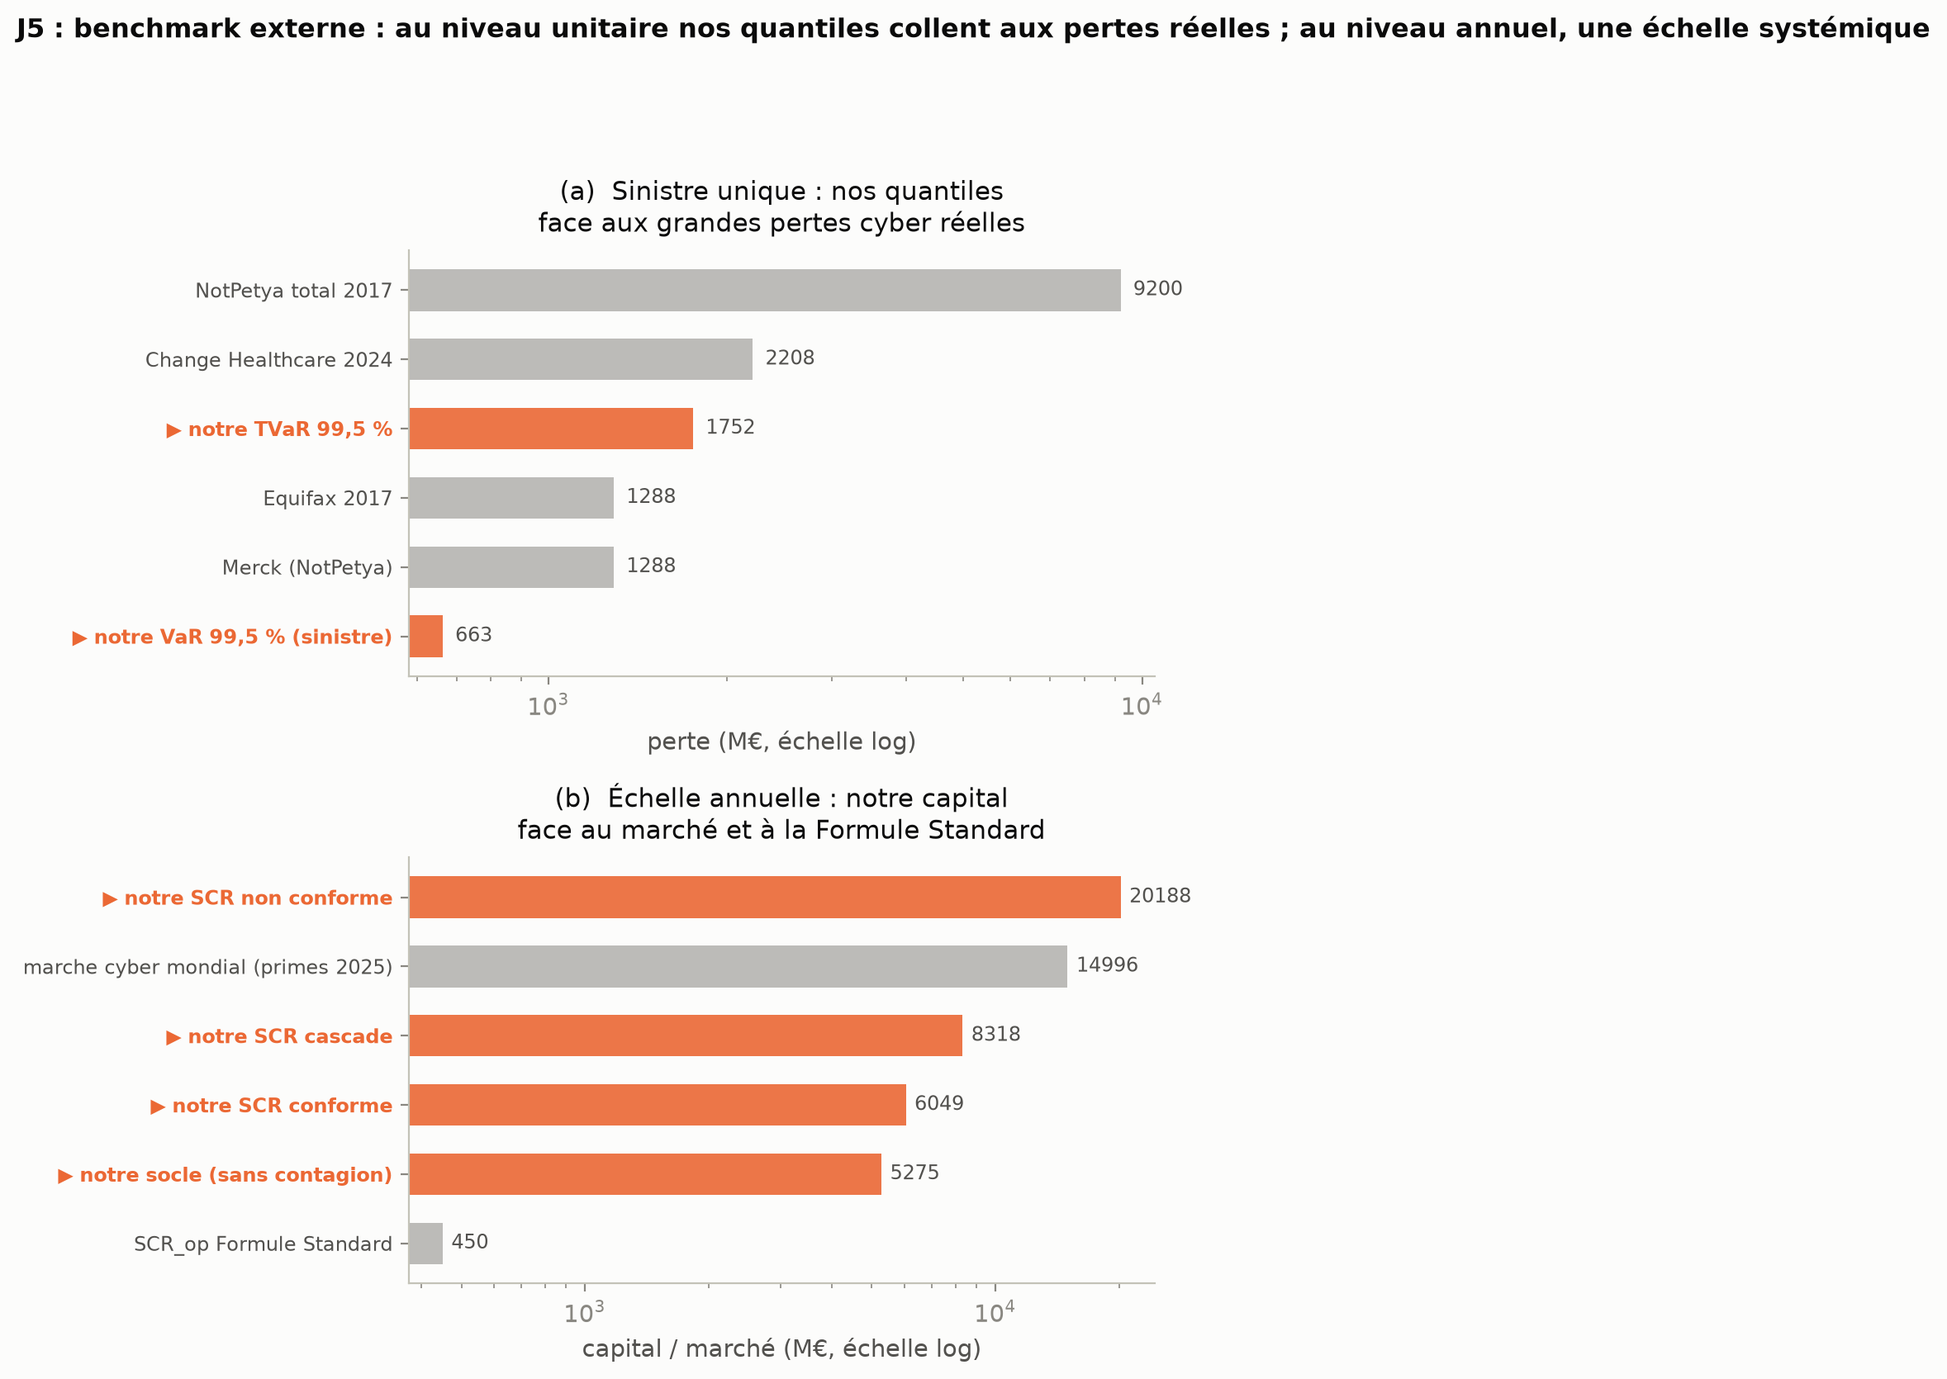
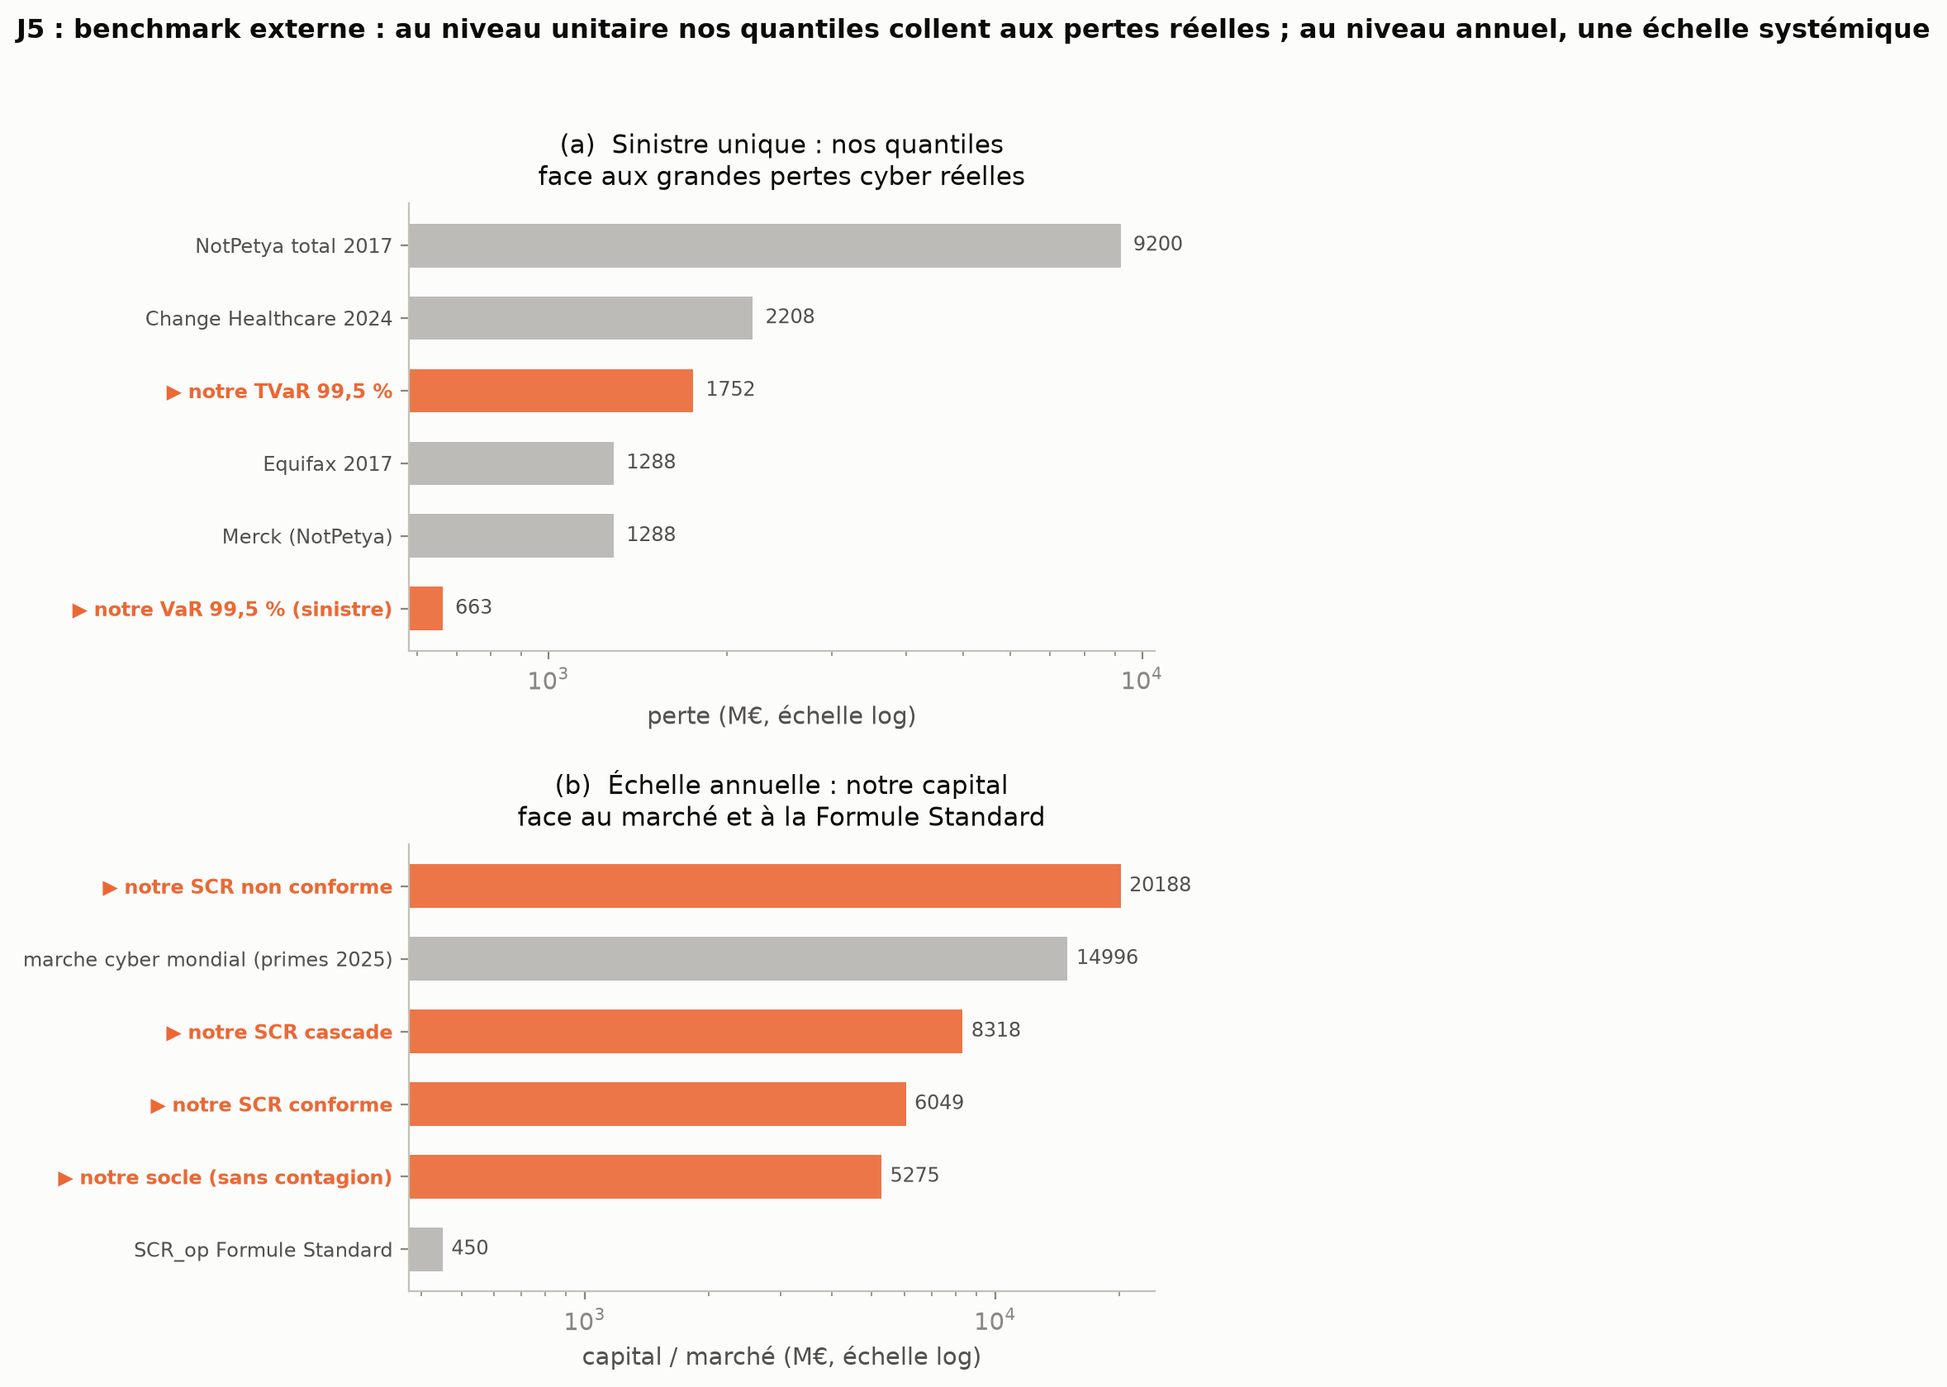
Les sept figures pleine page relues a l'ecran : quatre defauts de lisibilite corriges
J'avais annonce ne pas pouvoir voir les images. C'etait faux, je peux les ouvrir. Relecture
visuelle des sept, une par une. Le passage en panneaux empiles avait cree des defauts que la
seule verification des proportions ne pouvait pas attraper.

1. S19, panneau (c) : DEUX COLLISIONS. La legende etait posee sur la barre de gauche et
   recouvrait son etiquette "8.0" ; et "-64 %" etait imprime par-dessus "2.9". La cause est
   un espacement des etiquettes en POURCENTAGE de la valeur de la barre (c_ * 1.03 puis
   c_ * 1.14) : sur une barre a 2,9 les deux etiquettes se retrouvaient a 0,3 M d'ecart sur
   un axe montant a 8. L'espacement est desormais une fraction de la HAUTEUR DE L'AXE, donc
   invariant a la valeur des barres, la legende passe en haut a droite, et l'axe recoit de la
   place pour deux etiquettes empilees.

2. Z11, panneau (b) : DEUX ANNOTATIONS ILLISIBLES. "la fluctuation est IDENTIQUE" et
   "l'irreversibilite s'efface" etaient ecrites en gris clair directement SUR les barres
   bleues. En panneaux cote a cote elles tombaient dans le blanc ; empiles, les barres sont
   larges et les recouvrent. Fond opaque arrondi ajoute, l'annotation reste a sa place.

3. NEUF LEGENDES SANS FOND, sur cinq figures. frameon=False convient quand la place libre est
   large ; en panneaux empiles elle est rare, et une legende a nu sur une barre ou une courbe
   devient illisible. Toutes recoivent un fond opaque a 88 %.
[…]

diff --git a/exploratory/vasicek_lab/9_cas_usage/58_detenir_ou_transferer.py b/exploratory/vasicek_lab/9_cas_usage/58_detenir_ou_transferer.py
@@ -24,8 +24,11 @@ C'est un arbitrage classique retention/capital, applique ici a un risque dont la
 issue d'une cascade dirigee. Il donne une conclusion OPERATIONNELLE la ou le memoire ne
 donnait qu'un niveau.
 
-ECHELLE. Tout est calcule a l'echelle d'UNE ENTITE (lambda = 0,21/an), pas du secteur :
-c'est la seule echelle a laquelle la question du transfert se pose.
+ECHELLE. Tout est calcule a l'echelle d'UNE ENTITE, pas du secteur : c'est la seule echelle
+a laquelle la question du transfert se pose. La frequence est lue A LA TAILLE de l'entite
+visee (lambda = 0,0917/an) et la severite transposee a la meme taille (x 0,8545), et non
+prise dans un seau de firmes dix-neuf fois plus grandes comme dans une premiere version.
+Voir le script 60, qui etablit les deux corrections et les compose.
 
 Sortie : diagnostics + figure S19_detenir_ou_transferer.png.
 """
@@ -284,7 +287,7 @@ ax2.axvline(scr0, color=INK, ls="--", lw=1.3)
 ax2.text(scr0 * 1.02, ax2.get_ylim()[1] * 0.92, f"SCR = {scr0:,.0f}", fontsize=8.5, color=INK)
 ax2.set_xlabel("portée du traité en excès de perte $L$ (M€)", color=INK2)
 ax2.set_ylabel("coût annuel total (M€)", color=INK2)
-ax2.legend(frameon=False, fontsize=9)
+ax2.legend(frameon=True, facecolor="#fcfcfb", edgecolor="none", framealpha=0.88, fontsize=9)
 ax2.set_title("(b)  Prime + coût du capital résiduel :\nun optimum intérieur",
               fontsize=11, color=INK, pad=8)
 for s_ in ("top", "right"):
@@ -300,21 +303,35 @@ ax3.bar([0], [c0_], color=BL[2], edgecolor="#fcfcfb", width=0.55, label="coût d
 ax3.bar([1], [COC_REVISE * s_r], color=BL[2], edgecolor="#fcfcfb", width=0.55)
 ax3.bar([1], [p_], bottom=[COC_REVISE * s_r], color=ACCENT, edgecolor="#fcfcfb",
         width=0.55, label="prime de transfert")
-ax3.text(0, c0_ * 1.03, f"{c0_:,.1f}", ha="center", fontsize=9.5, color=INK2)
-ax3.text(1, c_ * 1.03, f"{c_:,.1f}", ha="center", fontsize=9.5, color=INK2)
-ax3.text(1, c_ * 1.14, f"{c_/c0_-1:+.0%}", ha="center", fontsize=10,
+# ESPACEMENT DES ETIQUETTES EN VALEUR ABSOLUE, PAS EN POURCENTAGE DE LA BARRE.
+# Un decalage multiplicatif (c_ * 1.03 puis c_ * 1.14) place les deux etiquettes de la
+# barre basse a 0,3 M d'ecart sur un axe qui monte a 8 : elles se chevauchaient. On les
+# separe d'une fraction de la HAUTEUR DE L'AXE, ce qui est invariant a la valeur des barres.
+_pas = 0.055 * c0_
+ax3.text(0, c0_ + _pas, f"{c0_:,.1f}", ha="center", fontsize=9.5, color=INK2)
+ax3.text(1, c_ + _pas, f"{c_:,.1f}", ha="center", fontsize=9.5, color=INK2)
+ax3.text(1, c_ + 3 * _pas, f"{c_/c0_-1:+.0%}", ha="center", fontsize=10,
          color=ACCENT, fontweight="bold")
+ax3.set_ylim(0, c0_ * 1.28)          # de la place pour les deux etiquettes empilees
 ax3.set_xticks([0, 1])
 ax3.set_xticklabels(["tout détenir", f"traité optimal\n$L^*={grid[i]:,.0f}$ M€"], fontsize=9)
 ax3.set_ylabel("coût annuel (M€)", color=INK2)
-ax3.legend(frameon=False, fontsize=8.5, loc="upper left")
+# legende en HAUT A DROITE : la barre de gauche monte jusqu'au sommet de l'axe, la
+# legende y recouvrait son etiquette de valeur.
+ax3.legend(frameon=True, facecolor="#fcfcfb", edgecolor="none", framealpha=0.88, fontsize=8.5, loc="upper right")
 ax3.set_title("(c)  Ce que le dimensionnement fait gagner", fontsize=11, color=INK, pad=8)
 for s_ in ("top", "right"):
     ax3.spines[s_].set_visible(False)
 
 fig.suptitle("S19 : détenir ou transférer, le SCR confronté au prix de marché du risque",
-             fontsize=13, fontweight="bold", color=INK, x=0.02, ha="left", y=0.99)
-fig.tight_layout(rect=[0, 0, 1, 0.91])
+             fontsize=13, fontweight="bold", color=INK, x=0.02, ha="left", y=0.995)
+# RESERVE EN POUCES, PAS EN FRACTION. Un rect a 0,90 reserve 10 % de la HAUTEUR au
+# titre : correct sur une figure large de 5 pouces de haut, deux fois trop sur une
+# figure empilee de 10 pouces, ou cela creait un bandeau blanc sous le titre. On
+# reserve donc une hauteur FIXE de 0,42 pouce, quelle que soit la taille de la figure.
+_top = 1.0 - 0.26 / fig.get_figheight()
+fig.suptitle_y = _top
+fig.tight_layout(rect=[0, 0, 1, _top], h_pad=1.6)
 outdir = os.path.join(HERE, "figures")
 os.makedirs(outdir, exist_ok=True)
 path = os.path.join(outdir, "S19_detenir_ou_transferer.png")

diff --git a/exploratory/vasicek_lab/6_contagion/40_reversibilite_martingale.py b/exploratory/vasicek_lab/6_contagion/40_reversibilite_martingale.py
@@ -262,11 +262,15 @@ ax2.bar(x + 0.19, sym, width=0.36, color=GREEN, alpha=0.9, label="chaîne symét
 ax2.set_xticks(x); ax2.set_xticklabels(labels, fontsize=8.5)
 ax2.set_ylabel("valeur (normalisée à la chaîne posée)", color=INK2, fontsize=9)
 ax2.set_ylim(0, 1.25)
-ax2.legend(frameon=False, fontsize=8, loc="upper center")
-ax2.text(0.02, 0.42, "la fluctuation est\nIDENTIQUE\n(ne voit que S)", transform=ax2.transAxes,
-         fontsize=8, color=MUTED, style="italic", ha="left")
-ax2.text(0.62, 0.10, "l'irréversibilité\ns'efface\n(σ → 0)", transform=ax2.transAxes,
-         fontsize=8, color=MUTED, style="italic", ha="left")
+ax2.legend(frameon=True, facecolor="#fcfcfb", edgecolor="none", framealpha=0.88, fontsize=8, loc="upper center")
+# FOND OPAQUE SUR LES ANNOTATIONS. En panneaux empiles les barres sont larges et ces deux
+# textes tombent DESSUS : ecrits en gris a nu sur du bleu, ils devenaient illisibles. Le
+# cadre les rend lisibles quelle que soit la barre derriere, sans deplacer l'annotation.
+_boite = dict(boxstyle="round,pad=0.28", facecolor="#fcfcfb", edgecolor="none", alpha=0.90)
+ax2.text(0.02, 0.44, "la fluctuation est\nIDENTIQUE\n(ne voit que S)", transform=ax2.transAxes,
+         fontsize=8, color=MUTED, style="italic", ha="left", bbox=_boite, zorder=6)
+ax2.text(0.60, 0.12, "l'irréversibilité\ns'efface\n(σ → 0)", transform=ax2.transAxes,
+         fontsize=8, color=MUTED, style="italic", ha="left", bbox=_boite, zorder=6)
 ax2.set_title("(b)  La martingale (fluctuation) ne voit que $S$ ;\n$A$ est toute la direction",
               fontsize=10.5, color=INK, pad=8)
 
@@ -291,8 +295,14 @@ ax3.text(0.02, 0.09, "$S$ : identifiée.   $A$ : placebo $z=-0{,}33$,\n"
 
 fig.suptitle("Z11 : la direction $A$ est le courant irréversible d'un processus, "
              "ce que la martingalisation retire et que la co-occurrence ne voit pas",
-             fontsize=12.5, fontweight="bold", color=INK, x=0.02, ha="left", y=0.99)
-fig.tight_layout(rect=[0, 0, 1, 0.92])
+             fontsize=12.5, fontweight="bold", color=INK, x=0.02, ha="left", y=0.995)
+# RESERVE EN POUCES, PAS EN FRACTION. Un rect a 0,90 reserve 10 % de la HAUTEUR au
+# titre : correct sur une figure large de 5 pouces de haut, deux fois trop sur une
+# figure empilee de 10 pouces, ou cela creait un bandeau blanc sous le titre. On
+# reserve donc une hauteur FIXE de 0,42 pouce, quelle que soit la taille de la figure.
+_top = 1.0 - 0.26 / fig.get_figheight()
+fig.suptitle_y = _top
+fig.tight_layout(rect=[0, 0, 1, _top], h_pad=1.6)
 outdir = os.path.join(os.path.dirname(_HERE), "figures")
 os.makedirs(outdir, exist_ok=True)
 path = os.path.join(outdir, "Z11_reversibilite_martingale.png")

diff --git a/exploratory/vasicek_lab/6_contagion/53_postmortem_direction.py b/exploratory/vasicek_lab/6_contagion/53_postmortem_direction.py
@@ -327,7 +327,7 @@ ax2.axvline(a_obs, color=ACCENT, lw=2.2, label=f"observé = {a_obs:.0f}")
 ax2.axvline(mu, color=INK, lw=1.4, ls="--", label=f"placebo = {mu:.1f}")
 ax2.set_xlabel("asymétrie $\\|M-M^\\top\\|_1/2$", color=INK2)
 ax2.set_ylabel("fréquence (permutations)", color=INK2)
-ax2.legend(frameon=False, fontsize=8.5)
+ax2.legend(frameon=True, facecolor="#fcfcfb", edgecolor="none", framealpha=0.88, fontsize=8.5)
 ax2.set_title(f"(b)  Placebo directionnel : $z={z:+.1f}$, $p={p_perm:.4f}$\n"
               f"(OpRisk annuel : $z=-0{{,}}33$)", fontsize=11, color=INK, pad=8)
 
@@ -338,7 +338,7 @@ ax3.bar(xs - wd / 2, [out[j] for j in PIL], width=wd, color=ACCENT, alpha=0.9, l
 ax3.bar(xs + wd / 2, [inn[j] for j in PIL], width=wd, color=BLUE, alpha=0.9, label="entrées (cible)")
 ax3.set_xticks(xs); ax3.set_xticklabels([f"P{j}" for j in PIL])
 ax3.set_ylabel("nombre de transitions", color=INK2)
-ax3.legend(frameon=False, fontsize=8.5)
+ax3.legend(frameon=True, facecolor="#fcfcfb", edgecolor="none", framealpha=0.88, fontsize=8.5)
 ax3.annotate("jamais\nune cible", (0 + wd / 2, 0.15), textcoords="offset points", xytext=(6, 18),
              fontsize=8, color=ACCENT, ha="left")
 ax3.set_title("(c)  P1 est source pure, P2 est puits :\nla structure du classeur, retrouvée",
@@ -350,8 +350,14 @@ for ax in (ax2, ax3):
 
 fig.suptitle("Z17 : la direction de $W$ identifiée par codage de post-mortems officiels, "
              "là où les bases agrégées échouaient",
-             fontsize=11.5, fontweight="bold", color=INK, x=0.02, ha="left", y=0.99)
-fig.tight_layout(rect=[0, 0, 1, 0.93])
+             fontsize=11.5, fontweight="bold", color=INK, x=0.02, ha="left", y=0.995)
+# RESERVE EN POUCES, PAS EN FRACTION. Un rect a 0,90 reserve 10 % de la HAUTEUR au
+# titre : correct sur une figure large de 5 pouces de haut, deux fois trop sur une
+# figure empilee de 10 pouces, ou cela creait un bandeau blanc sous le titre. On
+# reserve donc une hauteur FIXE de 0,42 pouce, quelle que soit la taille de la figure.
+_top = 1.0 - 0.26 / fig.get_figheight()
+fig.suptitle_y = _top
+fig.tight_layout(rect=[0, 0, 1, _top], h_pad=1.6)
 outdir = os.path.join(HERE, "figures")
 os.makedirs(outdir, exist_ok=True)
 path = os.path.join(outdir, "Z17_postmortem_direction.png")

diff --git a/exploratory/vasicek_lab/6_contagion/59_corpus_etendu_pij.py b/exploratory/vasicek_lab/6_contagion/59_corpus_etendu_pij.py
@@ -438,7 +438,7 @@ ax2.set_yticklabels([f"P{j}$\\to$P{k}" for (j, k) in pairs], fontsize=9)
 ax2.invert_yaxis()
 ax2.set_xlim(0, 1)
 ax2.set_xlabel("$p_{jk}$, crédible à 90 %", color=INK2)
-ax2.legend(frameon=False, fontsize=9, loc="lower right")
+ax2.legend(frameon=True, facecolor="#fcfcfb", edgecolor="none", framealpha=0.88, fontsize=9, loc="lower right")
 ax2.set_title("(b)  Dix premiers liens ordonnés :\nla direction ressort, l'amplitude reste large",
               fontsize=11, color=INK, pad=8)
 for s_ in ("top", "right"):
@@ -459,7 +459,7 @@ ax3.plot(deltas, partA, color=ACCENT, lw=2.3, label=r"part de direction $\|A\|/\
 ax3.set_xlabel(r"sous-documentation $\delta$ (défaillances non propagées ajoutées)",
                color=INK2, fontsize=9.5)
 ax3.set_ylabel("valeur", color=INK2)
-ax3.legend(frameon=False, fontsize=8.8)
+ax3.legend(frameon=True, facecolor="#fcfcfb", edgecolor="none", framealpha=0.88, fontsize=8.8)
 ax3.set_ylim(0, max(max(niveau), max(partA)) * 1.15)
 ax3.set_title("(c)  L'amplitude s'effondre,\nla direction tient", fontsize=11, color=INK, pad=8)
 for s_ in ("top", "right"):
@@ -467,8 +467,14 @@ for s_ in ("top", "right"):
 
 fig.suptitle(f"Z20 : corpus étendu à {n_inc} post-mortems, et matrice ordonnée "
              r"$p_{jk}$ au lieu du seul sens par paire",
-             fontsize=13, fontweight="bold", color=INK, x=0.02, ha="left", y=0.99)
-fig.tight_layout(rect=[0, 0, 1, 0.90])
+             fontsize=13, fontweight="bold", color=INK, x=0.02, ha="left", y=0.995)
+# RESERVE EN POUCES, PAS EN FRACTION. Un rect a 0,90 reserve 10 % de la HAUTEUR au
+# titre : correct sur une figure large de 5 pouces de haut, deux fois trop sur une
+# figure empilee de 10 pouces, ou cela creait un bandeau blanc sous le titre. On
+# reserve donc une hauteur FIXE de 0,42 pouce, quelle que soit la taille de la figure.
+_top = 1.0 - 0.26 / fig.get_figheight()
+fig.suptitle_y = _top
+fig.tight_layout(rect=[0, 0, 1, _top], h_pad=1.6)
 outdir = os.path.join(HERE, "figures")
 os.makedirs(outdir, exist_ok=True)
 path = os.path.join(outdir, "Z20_corpus_etendu_pij.png")

diff --git a/exploratory/vasicek_lab/6_contagion/30_identification_partielle_W.py b/exploratory/vasicek_lab/6_contagion/30_identification_partielle_W.py
@@ -247,7 +247,7 @@ ax1.scatter([1.0], [SCR_EXPERT], s=60, color=ACCENT, zorder=6, edgecolor="#fff",
 ax1.set_xlabel("$t$ : ignorance de la direction  (1 = donnée actuelle)", color=INK2)
 ax1.set_ylabel("SCR (VaR 99,5 %, M€)", color=INK2)
 ax1.set_title("(a)  Ce que la donnée manquante coûte", fontsize=11, color=INK, pad=8)
-ax1.legend(frameon=False, fontsize=8, loc="upper left")
+ax1.legend(frameon=True, facecolor="#fcfcfb", edgecolor="none", framealpha=0.88, fontsize=8, loc="upper left")
 
 ax2.hist(prior_vals, bins=28, color=BLUE, alpha=0.55, edgecolor="white", linewidth=0.5)
 ax2.axvspan(lo1, hi1, color=MUTED, alpha=0.13)
@@ -267,7 +267,7 @@ ax3.set_xticks(xs)
 ax3.set_xticklabels([f"P{p}" for p in pid.PIL])
 ax3.set_ylabel("M€ de SCR", color=INK2)
 ax3.set_title(f"(c)  Priorité robuste : P{pid.PIL[j1]} (minimax)", fontsize=11, color=INK, pad=8)
-ax3.legend(frameon=False, fontsize=8)
+ax3.legend(frameon=True, facecolor="#fcfcfb", edgecolor="none", framealpha=0.88, fontsize=8)
 
 im = ax4.imshow(np.where(np.eye(pid.NP_) == 1, np.nan, domin), cmap="RdBu_r", vmin=0, vmax=1)
 for j in range(pid.NP_):
@@ -285,8 +285,14 @@ for ax in (ax1, ax2, ax3):
         ax.spines[s].set_visible(False)
 
 fig.suptitle("Z : identification partielle de la contagion dirigée, et bornes de capital",
-             fontsize=13, fontweight="bold", color=INK, x=0.02, ha="left", y=0.99)
-fig.tight_layout(rect=[0, 0, 1, 0.93])
+             fontsize=13, fontweight="bold", color=INK, x=0.02, ha="left", y=0.995)
+# RESERVE EN POUCES, PAS EN FRACTION. Un rect a 0,90 reserve 10 % de la HAUTEUR au
+# titre : correct sur une figure large de 5 pouces de haut, deux fois trop sur une
+# figure empilee de 10 pouces, ou cela creait un bandeau blanc sous le titre. On
+# reserve donc une hauteur FIXE de 0,42 pouce, quelle que soit la taille de la figure.
+_top = 1.0 - 0.26 / fig.get_figheight()
+fig.suptitle_y = _top
+fig.tight_layout(rect=[0, 0, 1, _top], h_pad=1.6)
 outdir = os.path.join(HERE, "figures")
 os.makedirs(outdir, exist_ok=True)
 path = os.path.join(outdir, "Z_identification_partielle.png")

diff --git a/exploratory/vasicek_lab/1_fondations/49_benchmark_externe.py b/exploratory/vasicek_lab/1_fondations/49_benchmark_externe.py
@@ -142,8 +142,14 @@ ladder(ax2, {"notre socle (sans contagion)": SOCLE, "notre SCR cascade": scr_cas
 
 fig.suptitle("J5 : benchmark externe : au niveau unitaire nos quantiles collent aux pertes réelles ; "
              "au niveau annuel, une échelle systémique",
-             fontsize=11.5, fontweight="bold", color=INK, x=0.02, ha="left", y=0.99)
-fig.tight_layout(rect=[0, 0, 1, 0.93])
+             fontsize=11.5, fontweight="bold", color=INK, x=0.02, ha="left", y=0.995)
+# RESERVE EN POUCES, PAS EN FRACTION. Un rect a 0,90 reserve 10 % de la HAUTEUR au
+# titre : correct sur une figure large de 5 pouces de haut, deux fois trop sur une
+# figure empilee de 10 pouces, ou cela creait un bandeau blanc sous le titre. On
+# reserve donc une hauteur FIXE de 0,42 pouce, quelle que soit la taille de la figure.
+_top = 1.0 - 0.26 / fig.get_figheight()
+fig.suptitle_y = _top
+fig.tight_layout(rect=[0, 0, 1, _top], h_pad=1.6)
 outdir = os.path.join(HERE, "figures")
 os.makedirs(outdir, exist_ok=True)
 path = os.path.join(outdir, "J5_benchmark_externe.png")

diff --git a/exploratory/vasicek_lab/6_contagion/55_valeur_information.py b/exploratory/vasicek_lab/6_contagion/55_valeur_information.py
@@ -256,8 +256,14 @@ for ax in (ax1, ax2):
 
 fig.suptitle("Z18 : la valeur de l'information manquante, chiffrée et hiérarchisée : "
              "quelle dépendance le registre DORA devrait documenter d'abord",
-             fontsize=11.5, fontweight="bold", color=INK, x=0.02, ha="left", y=0.99)
-fig.tight_layout(rect=[0, 0, 1, 0.93])
+             fontsize=11.5, fontweight="bold", color=INK, x=0.02, ha="left", y=0.995)
+# RESERVE EN POUCES, PAS EN FRACTION. Un rect a 0,90 reserve 10 % de la HAUTEUR au
+# titre : correct sur une figure large de 5 pouces de haut, deux fois trop sur une
+# figure empilee de 10 pouces, ou cela creait un bandeau blanc sous le titre. On
+# reserve donc une hauteur FIXE de 0,42 pouce, quelle que soit la taille de la figure.
+_top = 1.0 - 0.26 / fig.get_figheight()
+fig.suptitle_y = _top
+fig.tight_layout(rect=[0, 0, 1, _top], h_pad=1.6)
 outdir = os.path.join(HERE, "figures")
 os.makedirs(outdir, exist_ok=True)
 path = os.path.join(outdir, "Z18_valeur_information.png")
